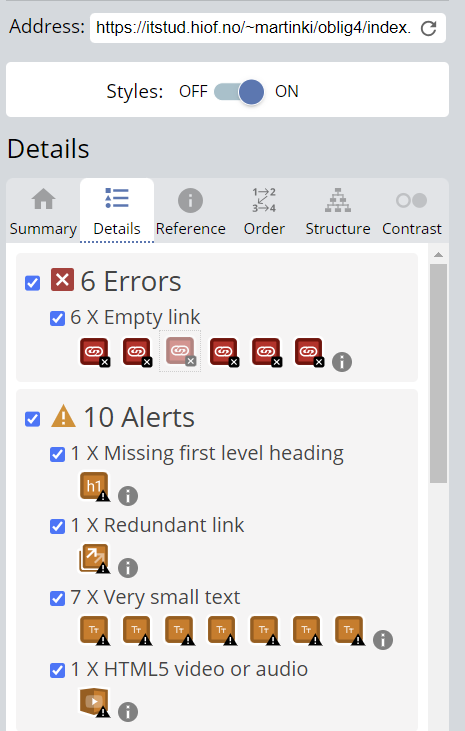
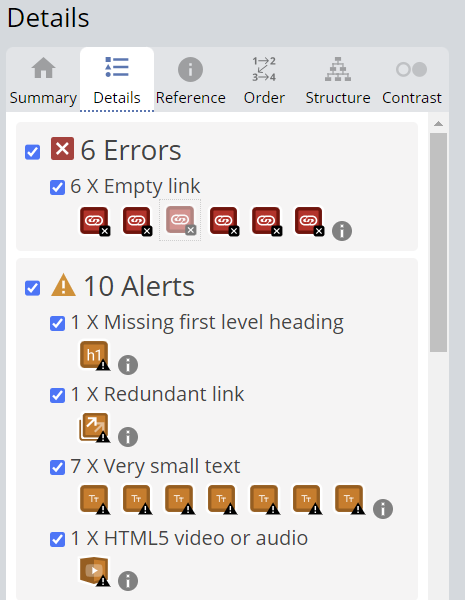
Lagt inn chatGPT-resultater
Lagt inn chatGPT-resultater på analysesiden, og jobbet litt med SCSS.

diff --git a/analyse.html b/analyse.html
@@ -60,39 +60,42 @@
                     <h2>Analyse for universell utforming</h2>
                     <article>
                         <h3>Forside</h3>
-                        <img src="analysebilder/webaim-forside-summary.png" alt="Skjermbilde av resultatet fra Webaim-analysen av forsiden.">
-                        <p>Webaim-analysen av forsiden viser 6 errors og 10 alerts.</p>
                         <img src="analysebilder/webaim-forside-details.png" alt="Skjermbilde av detaljene rundt feilene som ble avdekket av Webaim-analysen av forsiden.">
-                        <p>De 6 feilene handler om at jeg har lagt link på ikonene jeg har lagt inn på siden - i headeren og i footeren. Linkene inneholder derfor ingen tekst som skjermopplesere kan lese opp for å fortelle hva linken fører til. 7 av de 10 alertsene handler om tekst som jeg har satt i for liten font-størrelse. Jeg har også fått en alert fordi nettsiden mangler en h1-overskrift, at en av linkene i headeren fører til samme nettside som jeg linker fra, og at det befinner seg en video på siden.</p>
+                        <p>Webaim-analysen av forsiden viser 6 errors og 10 alerts. De 6 feilene handler om at jeg har lagt link på ikonene jeg har lagt inn på siden - i headeren og i footeren. Linkene inneholder derfor ingen tekst som skjermopplesere kan lese opp for å fortelle hva linken fører til. 7 av de 10 alertsene handler om tekst som jeg har satt i for liten font-størrelse. Jeg har også fått en alert fordi nettsiden mangler en h1-overskrift, at en av linkene i headeren fører til samme nettside som jeg linker fra, og at det befinner seg en video på siden.</p>
                     </article>
                     <article>
                         <h3>Kategoriside</h3>
-                        <img src="analysebilder/webaim-kategoriside-summary.png" alt="Skjermbilde av resultatet fra Webaim-analysen av kategorisiden.">
-                        <p>Webaim-analysen av kategorisiden viser 7 errors og 17 alerts.</p>
                         <img src="analysebilder/webaim-kategoriside-details.png" alt="Skjermbilde av detaljene rundt feilene som ble avdekket av Webaim-analysen av kategorisiden.">
-                        <p>De 7 feilene handler om at jeg har lagt inn link på ikonene jeg har lagt inn på siden (de samme feilene som på forsiden), og at jeg har en overskrift som ikke inneholder noen skrift, fordi jeg har satt filterikonet inne i denne overskriften. 9 av de 17 alertsene handler om for liten tekst på bildekildene, på samme måte som på forsiden. 7 av alertsene handler om tekst som ikke er satt som overskrift, men som analyseverktøyet lurer på om burde vært overskrifter. Også her er det en link som linker til samme nettside som jeg linker fra, og det er hva den siste alerten angår.</p>
+                        <p>Webaim-analysen av kategorisiden viser 7 errors og 17 alerts. De 7 feilene handler om at jeg har lagt inn link på ikonene jeg har lagt inn på siden (de samme feilene som på forsiden), og at jeg har en overskrift som ikke inneholder noen skrift, fordi jeg har satt filterikonet inne i denne overskriften. 9 av de 17 alertsene handler om for liten tekst på bildekildene, på samme måte som på forsiden. 7 av alertsene handler om tekst som ikke er satt som overskrift, men som analyseverktøyet lurer på om burde vært overskrifter. Også her er det en link som linker til samme nettside som jeg linker fra, og det er hva den siste alerten angår.</p>
                     </article>
                     <article>
                         <h3>Produktside</h3>
-                        <img src="analysebilder/webaim-produktside-summary.png" alt="Skjermbilde av resultatet fra Webaim-analysen av produktisden.">
-                        <p>Webaim-analysen av produktsiden viser 6 errors og 4 alerts.</p>
                         <img src="analysebilder/webaim-produktside-details.png" alt="Skjermbilde av detaljene rundt feilene som ble avdekket av Webaim-analysen av produktsiden.">
-                        <p>De 6 feilene på produktsiden er akkurat de samme 6 errors som dukket opp på forsiden, fordi disse angår headeren og footeren, som er lik på alle sider. En av de 4 alertsene handler om at nettsiden mangler en h1-overskrift, en handler om at analyseverktøyet lurer på om en tekst som er satt i en p-tagg burde vært en overskrift, en handler om en link som linker til samme side som det linkes fra, og den siste handler om at det er for liten font-størrelse på bildekilden.</p>
+                        <p>Webaim-analysen av produktsiden viser 6 errors og 4 alerts. De 6 feilene på produktsiden er akkurat de samme 6 errors som dukket opp på forsiden, fordi disse angår headeren og footeren, som er lik på alle sider. En av de 4 alertsene handler om at nettsiden mangler en h1-overskrift, en handler om at analyseverktøyet lurer på om en tekst som er satt i en p-tagg burde vært en overskrift, en handler om en link som linker til samme side som det linkes fra, og den siste handler om at det er for liten font-størrelse på bildekilden.</p>
                     </article>
                 </section>
-                <section>
+                <section id="chat-gpt">
                     <h2>ChatGPT sin vurdering</h2>
                     <article>
                         <h3>Forside</h3>
-                        <p></p>
+                        <img src="analysebilder/chatGPT-forside-SEO.png" alt="Skjermbilde av ChatGPT sin SEO-vurdering av forsiden.">
+                        <p>På bildet ovenfor er ChatGPT sin vurdering av SEO på forsiden min.</p>
+                        <img src="analysebilder/chatGPT-forside-UU.png" alt="Skjermbilde av ChatGPT sin UU-vurdering av forsiden.">
+                        <p>På bildet ovenfor er ChatGPT sin vurdering av UU på forsiden min.</p>
                     </article>
                     <article>
                         <h3>Kategoriside</h3>
-                        <p></p>
+                        <img src="analysebilder/chatGPT-kategoriside-SEO.png" alt="Skjermbilde av ChatGPT sin SEO-vurdering av kategorisiden.">
+                        <p>På bildet ovenfor er ChatGPT sin vurdering av SEO på kategorisiden min.</p>
+                        <img src="analysebilder/chatGPT-kategoriside-UU.png" alt="Skjermbilde av ChatGPT sin UU-vurdering av kategorisiden.">
+                        <p>På bildet ovenfor er ChatGPT sin vurdering av UU på kategorisiden min.</p>
                     </article>
                     <article>
                         <h3>Produktside</h3>
-                        <p></p>
+                        <img src="analysebilder/chatGPT-produktside-SEO.png" alt="Skjermbilde av ChatGPT sin SEO-vurdering av produktsiden.">
+                        <p>På bildet ovenfor er ChatGPT sin vurdering av SEO på produktsiden min.</p>
+                        <img src="analysebilder/chatGPT-produktside-UU.png" alt="Skjermbilde av ChatGPT sin UU-vurdering av produktsiden.">
+                        <p>På bildet ovenfor er ChatGPT sin vurdering av UU på produktsiden min.</p>
                     </article>
                 </section>
                 <section>

diff --git a/sass/style.scss b/sass/style.scss
@@ -908,6 +908,47 @@ body{
             }
 
             #universell-utforming{
+                display: flex;
+                flex-direction: row;
+                flex-wrap: wrap;
+                align-items: baseline;
+
+                h2{
+                    width: 100%;
+                    display: flex;
+                    justify-content: center;
+                }
+
+                article{
+                    width: 100%;
+                    display: flex;
+                    flex-direction: row;
+                    flex-wrap: wrap;
+                    justify-content: space-evenly;
+                    padding: 0 1rem;
+
+                    h3{
+                        width: 100%;
+                        display: flex;
+                        justify-content: center;
+                    }
+
+                    img{
+                        width: 100%;
+                    }
+
+                    p{
+                        width: 100%;
+                    }
+                }
+            }
+
+            #chat-gpt{
+                display: flex;
+                flex-wrap: wrap;
+                flex-direction: row;
+                justify-content: space-between;
+                align-items: baseline;
 
                 h2{
                     width: 100%;
@@ -921,6 +962,7 @@ body{
                     flex-direction: row;
                     flex-wrap: wrap;
                     justify-content: space-between;
+                    padding: 0 1rem;
 
                     h3{
                         width: 100%;
@@ -929,10 +971,6 @@ body{
                     }
 
                     img{
-                        width: 100%;
-                    }
-
-                    p{
                         width: 100%;
                     }
                 }
@@ -972,14 +1010,24 @@ body{
 
                 #universell-utforming{
                     article{
+                        width: 50%;
+
                         img{
-                            width: 25%;
+                            width: 50%;
+                            max-width: 300px;
+                            max-height: 450px;
                         }
-    
+
                         p{
-                            width: 25%;
+                            width: 50%;
                             padding: 0 1rem;
                         }
+                    }
+                }
+
+                #chat-gpt{
+                    article{
+                        width: 50%;
                     }
                 }
             }

diff --git a/css/style.css b/css/style.css
@@ -720,6 +720,12 @@ body #grid-analyse main #seo h2 {
   display: flex;
   justify-content: center;
 }
+body #grid-analyse main #universell-utforming {
+  display: flex;
+  flex-direction: row;
+  flex-wrap: wrap;
+  align-items: baseline;
+}
 body #grid-analyse main #universell-utforming h2 {
   width: 100%;
   display: flex;
@@ -730,7 +736,8 @@ body #grid-analyse main #universell-utforming article {
   display: flex;
   flex-direction: row;
   flex-wrap: wrap;
-  justify-content: space-between;
+  justify-content: space-evenly;
+  padding: 0 1rem;
 }
 body #grid-analyse main #universell-utforming article h3 {
   width: 100%;
@@ -741,6 +748,34 @@ body #grid-analyse main #universell-utforming article img {
   width: 100%;
 }
 body #grid-analyse main #universell-utforming article p {
+  width: 100%;
+}
+body #grid-analyse main #chat-gpt {
+  display: flex;
+  flex-wrap: wrap;
+  flex-direction: row;
+  justify-content: space-between;
+  align-items: baseline;
+}
+body #grid-analyse main #chat-gpt h2 {
+  width: 100%;
+  display: flex;
+  justify-content: center;
+}
+body #grid-analyse main #chat-gpt article {
+  width: 100%;
+  display: flex;
+  flex-direction: row;
+  flex-wrap: wrap;
+  justify-content: space-between;
+  padding: 0 1rem;
+}
+body #grid-analyse main #chat-gpt article h3 {
+  width: 100%;
+  display: flex;
+  justify-content: center;
+}
+body #grid-analyse main #chat-gpt article img {
   width: 100%;
 }
 body #grid-analyse footer {
@@ -767,12 +802,20 @@ body #grid-analyse footer {
   body #grid-analyse main section article {
     width: 30%;
   }
+  body #grid-analyse main #universell-utforming article {
+    width: 50%;
+  }
   body #grid-analyse main #universell-utforming article img {
-    width: 25%;
+    width: 50%;
+    max-width: 300px;
+    max-height: 450px;
   }
   body #grid-analyse main #universell-utforming article p {
-    width: 25%;
+    width: 50%;
     padding: 0 1rem;
+  }
+  body #grid-analyse main #chat-gpt article {
+    width: 50%;
   }
   body #grid-analyse footer {
     grid-column-start: 1;
